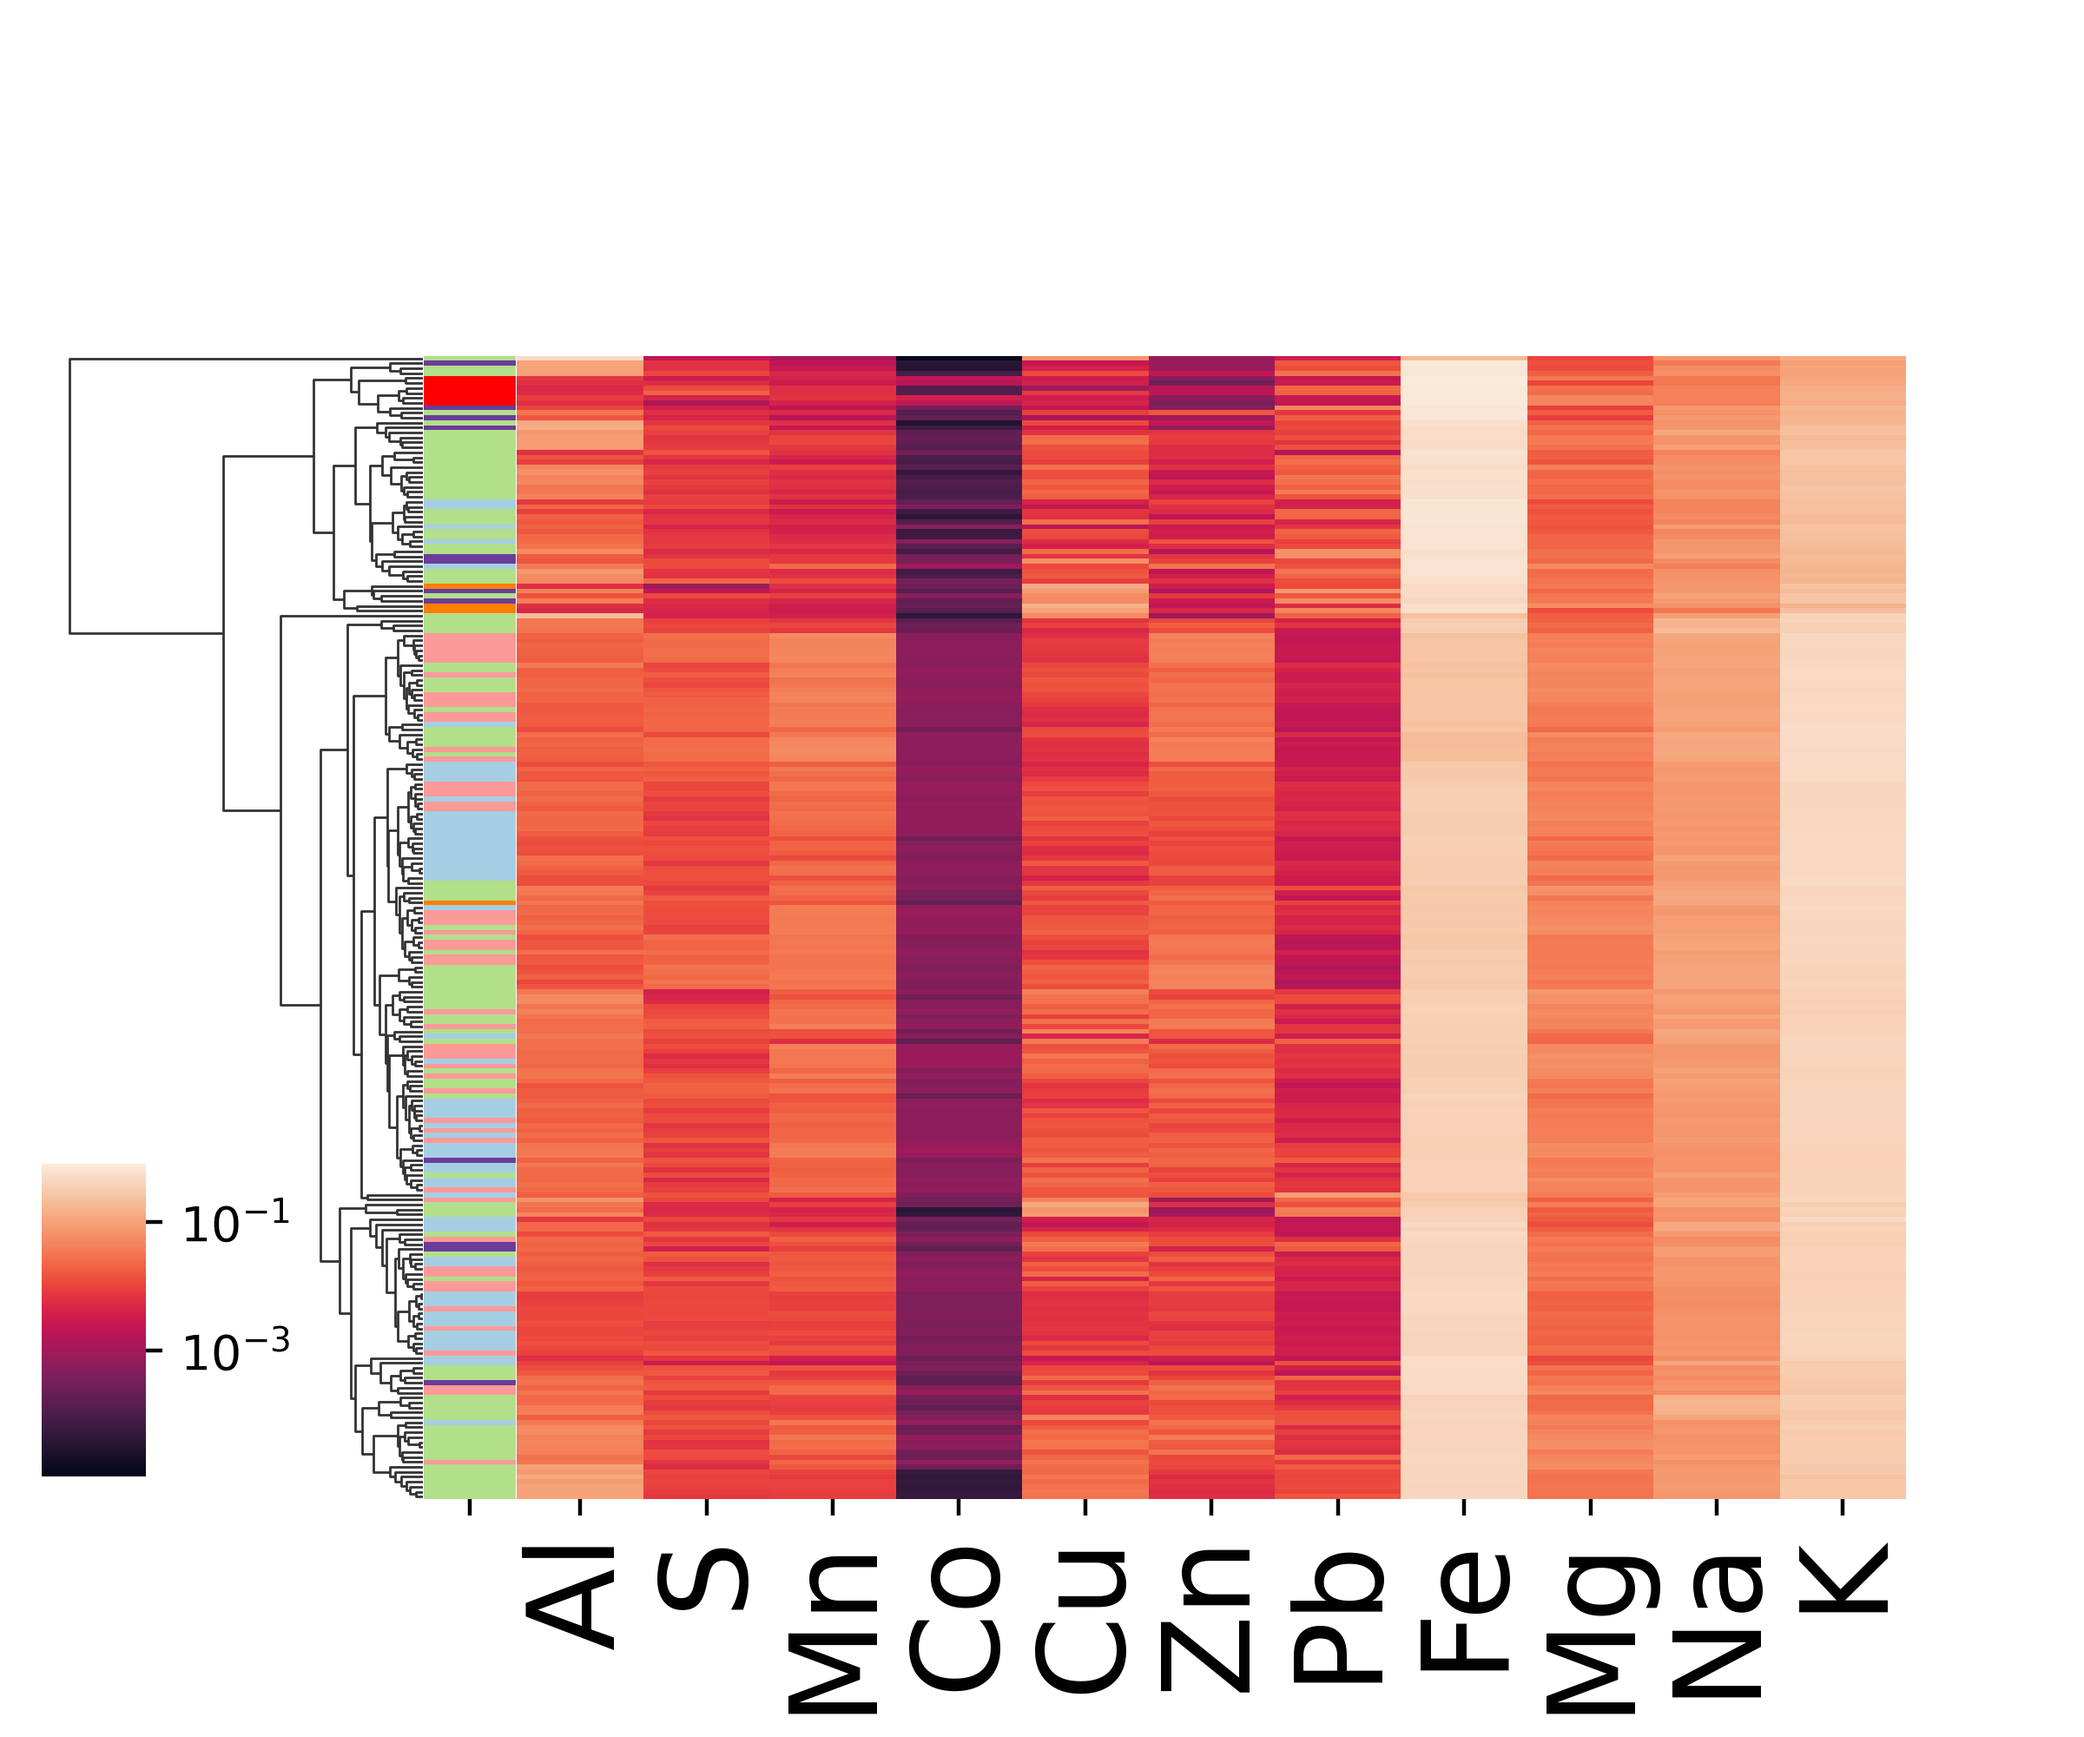
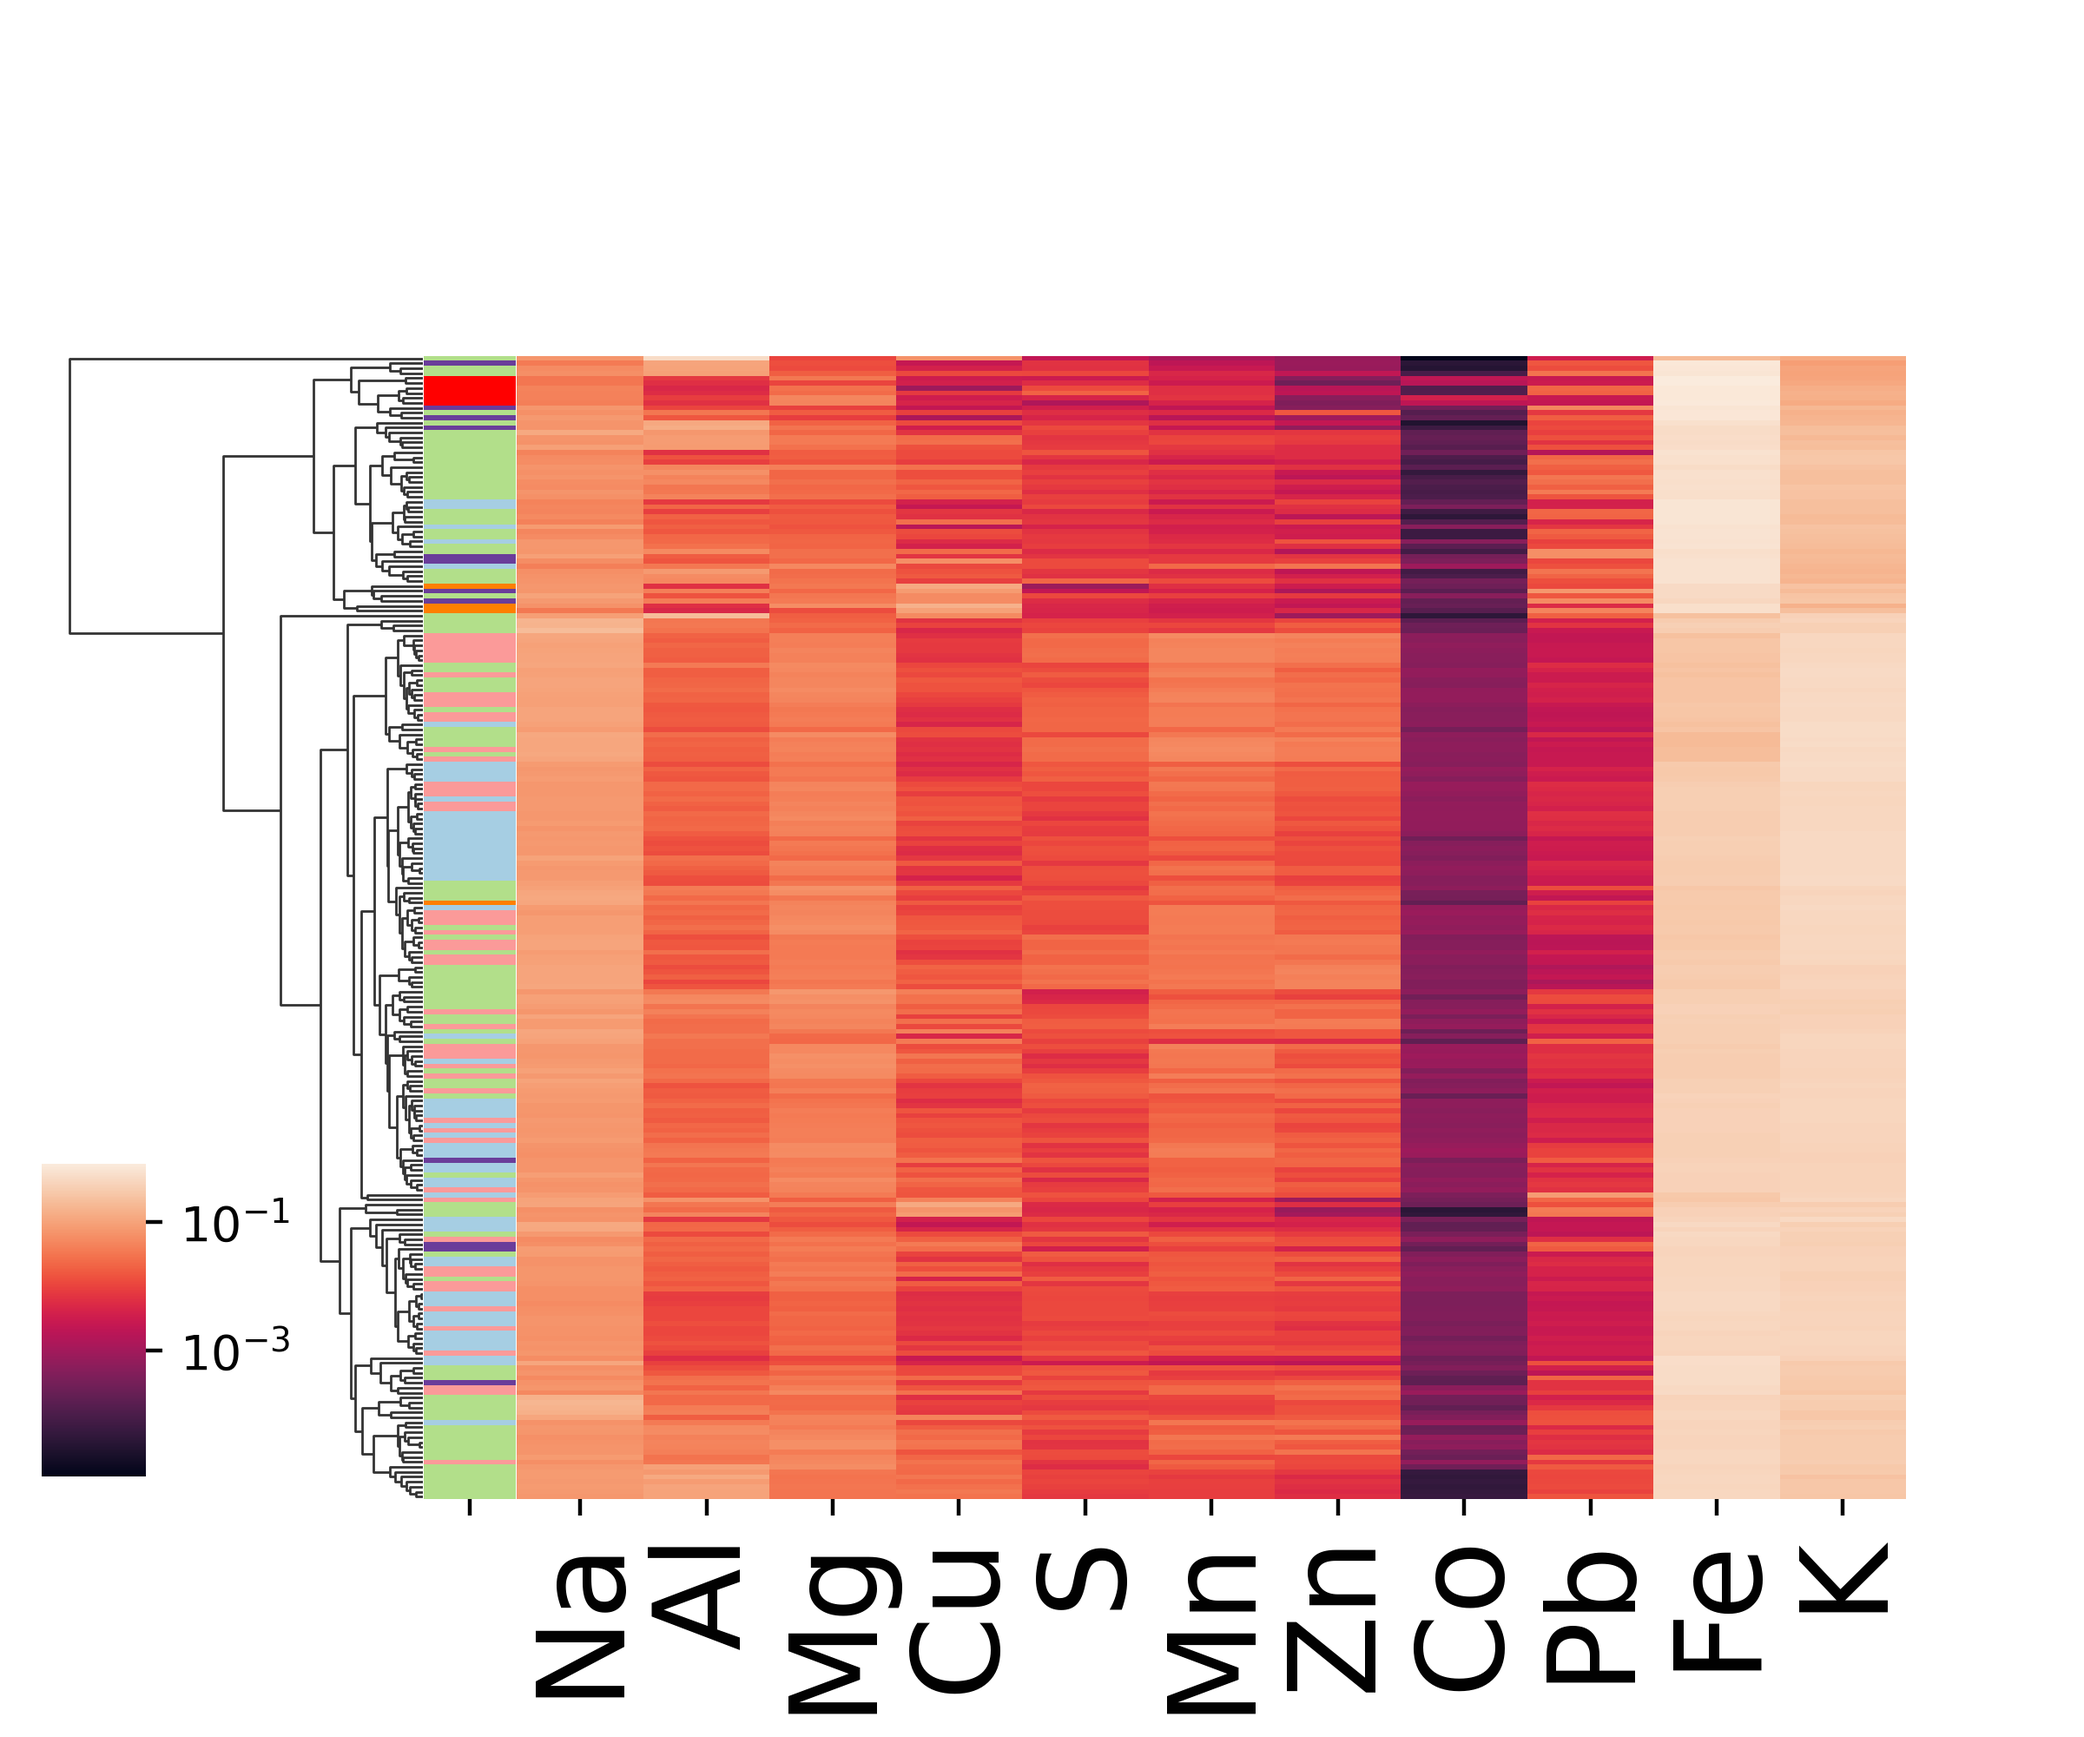
Added column clustering

diff --git a/analysis/6_prediction_visualisations.py b/analysis/6_prediction_visualisations.py
@@ -190,7 +190,7 @@ visualise_clustering_on_heatmap(X,
                                 colormap=cm.Paired, 
                                 cbar_pos=(0.02, 0.15, 0.05, 0.18), 
                                 dendrogram_ratio=0.2, 
-                                col_cluster=False, 
+                                col_cluster=True, 
                                 show_legend=False, 
                                 figures_path=FIGURES_PATH)
 
